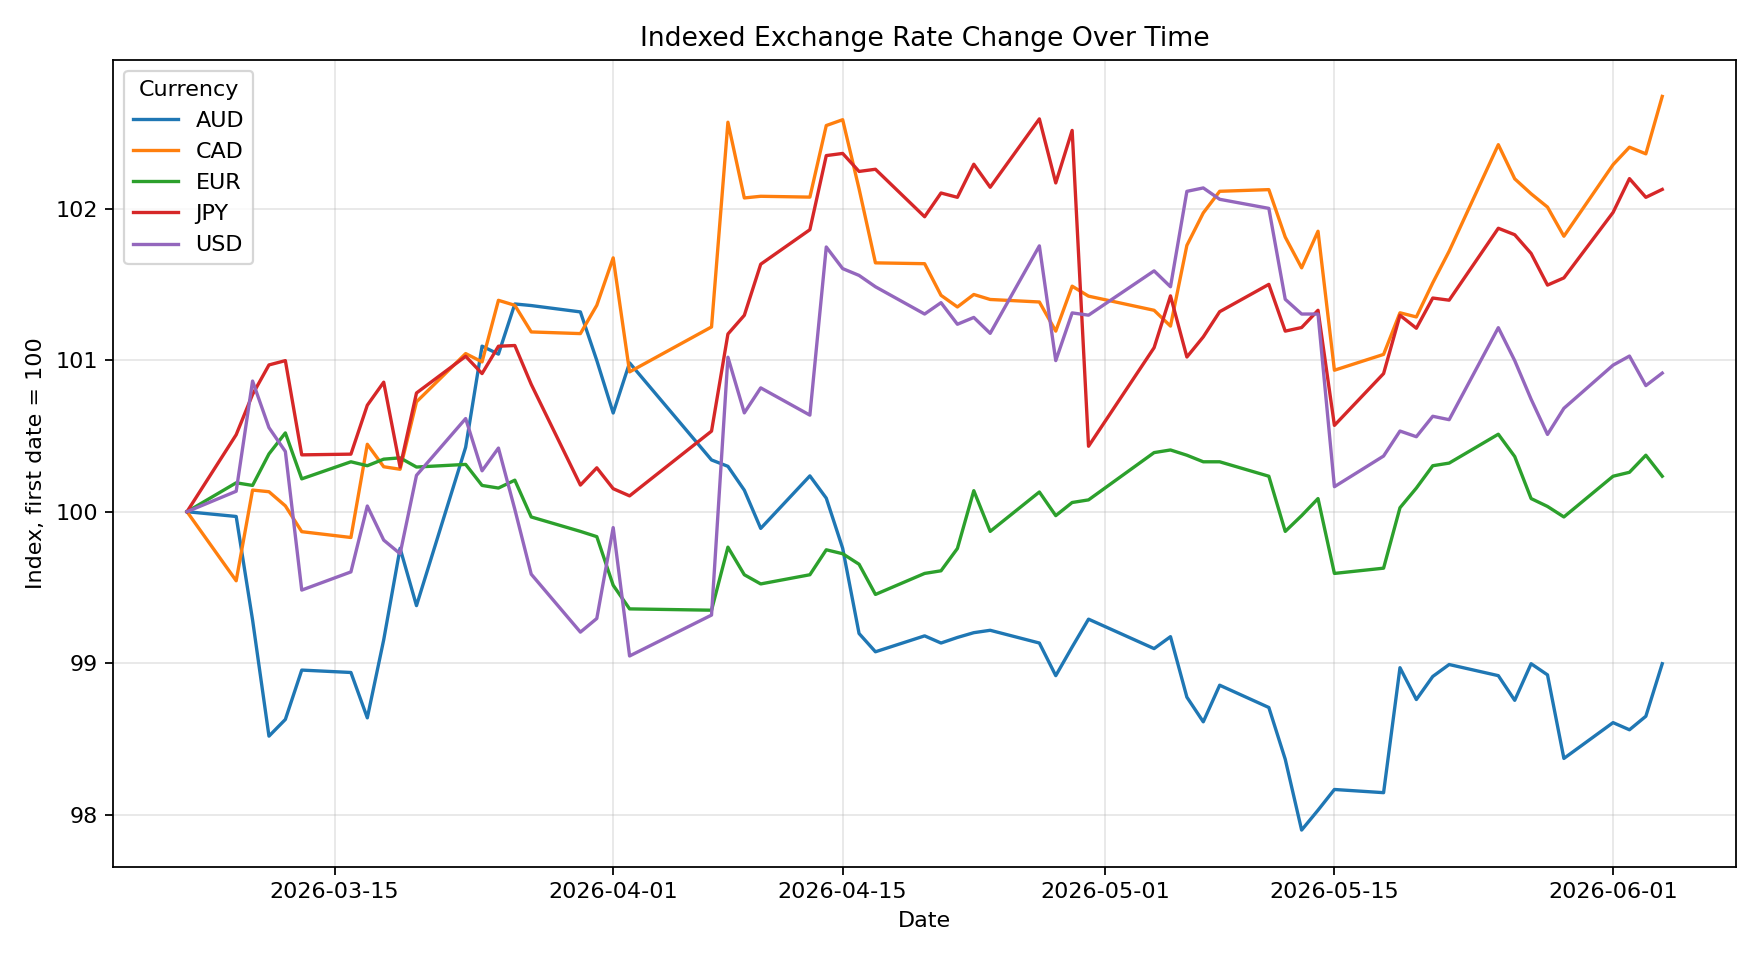
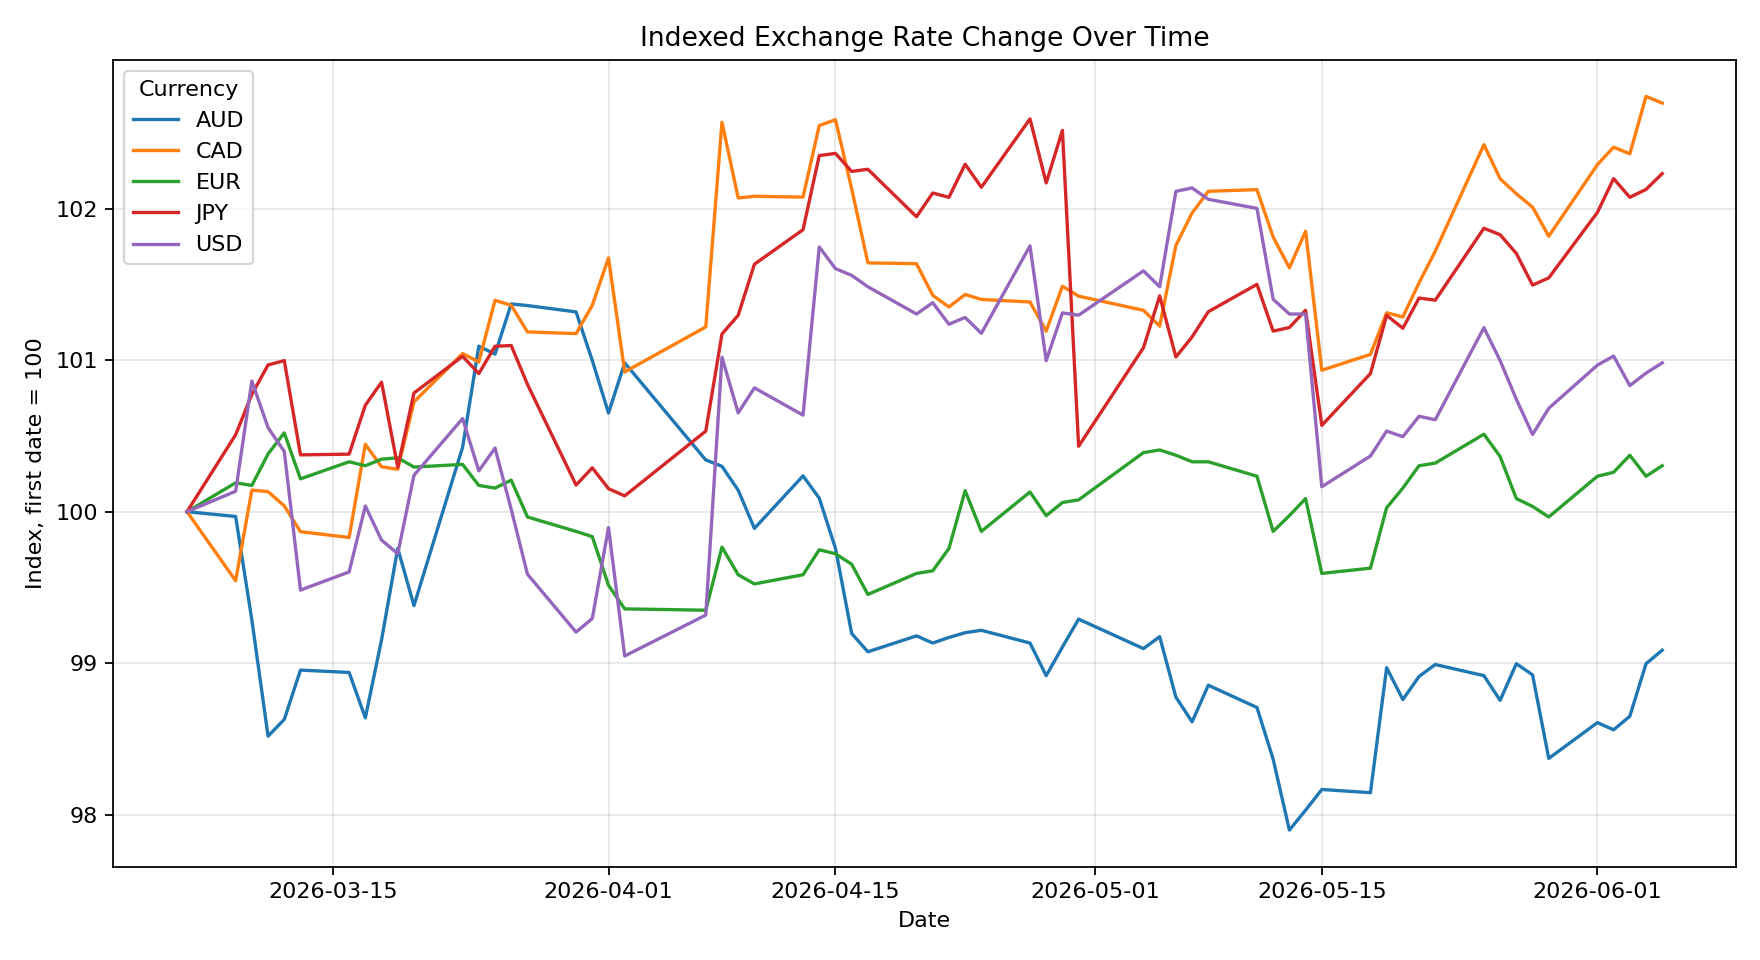
Simplify chart section and explain dual axis

diff --git a/src/create_charts.py b/src/create_charts.py
@@ -15,36 +15,6 @@ SUMMARY_INPUT_PATH = Path("data/processed/exchange_rates_summary.csv")
 CHART_DIR = Path("outputs/charts")
 
 
-def save_line_chart(clean_df: pd.DataFrame) -> None:
-    """Save line charts showing exchange-rate movement over time."""
-    major_currency_df = clean_df[clean_df["target_currency"] != "JPY"]
-    plt.figure(figsize=(11, 6))
-    for currency in sorted(major_currency_df["target_currency"].unique()):
-        currency_df = major_currency_df[major_currency_df["target_currency"] == currency]
-        plt.plot(currency_df["date"], currency_df["exchange_rate"], label=currency)
-
-    plt.title("GBP Exchange Rates Over Time Excluding JPY")
-    plt.xlabel("Date")
-    plt.ylabel("Exchange rate from GBP")
-    plt.legend(title="Currency")
-    plt.grid(alpha=0.3)
-    plt.tight_layout()
-    plt.savefig(CHART_DIR / "exchange_rates_over_time_excluding_jpy.png", dpi=160)
-    plt.close()
-
-    jpy_df = clean_df[clean_df["target_currency"] == "JPY"]
-    plt.figure(figsize=(11, 6))
-    plt.plot(jpy_df["date"], jpy_df["exchange_rate"], color="#8c564b", label="JPY")
-    plt.title("GBP to JPY Exchange Rate Over Time")
-    plt.xlabel("Date")
-    plt.ylabel("Exchange rate from GBP")
-    plt.legend(title="Currency")
-    plt.grid(alpha=0.3)
-    plt.tight_layout()
-    plt.savefig(CHART_DIR / "gbp_to_jpy_exchange_rate.png", dpi=160)
-    plt.close()
-
-
 def save_dual_axis_chart(clean_df: pd.DataFrame) -> None:
     """Save one chart with JPY on a separate axis because it has a different scale."""
     major_currency_df = clean_df[clean_df["target_currency"] != "JPY"]
@@ -129,7 +99,6 @@ def main() -> None:
     clean_df = pd.read_csv(CLEAN_INPUT_PATH, parse_dates=["date"])
     summary_df = pd.read_csv(SUMMARY_INPUT_PATH)
 
-    save_line_chart(clean_df)
     save_dual_axis_chart(clean_df)
     save_indexed_line_chart(clean_df)
     save_percentage_range_chart(clean_df)

diff --git a/README.md b/README.md
@@ -70,8 +70,6 @@ Outputs:
 Outputs:
 
 - `outputs/charts/exchange_rates_dual_axis_with_jpy.png`
-- `outputs/charts/exchange_rates_over_time_excluding_jpy.png`
-- `outputs/charts/gbp_to_jpy_exchange_rate.png`
 - `outputs/charts/indexed_exchange_rate_change.png`
 - `outputs/charts/exchange_rate_percentage_range_by_currency.png`
 
@@ -83,19 +81,15 @@ Outputs:
 
 ### GBP Exchange Rates With JPY on a Separate Axis
 
-JPY has much larger exchange-rate values than the other selected currencies. This chart keeps all currencies in one view, but uses a separate right-hand axis for JPY so the other lines remain readable.
+This chart shows all selected currencies in one view, but uses two y-axes because JPY is on a much larger numerical scale than the other currencies.
+
+The left-hand y-axis is used for USD, EUR, CAD and AUD. These exchange rates are all close enough in value to be compared on the same scale. The right-hand y-axis is used for JPY, because GBP to JPY is around 210–216 during this period, while the other currencies are mostly around 1–2.
+
+Using one shared y-axis would make the USD, EUR, CAD and AUD lines appear almost flat and difficult to read. Using a separate axis for JPY keeps the chart readable while still allowing all currencies to be shown together.
+
+The chart should be read as a trend comparison rather than a direct comparison of raw values across the two axes. For fairer comparison of relative movement, the indexed chart below is more useful.
 
 ![GBP exchange rates with JPY on a separate axis](outputs/charts/exchange_rates_dual_axis_with_jpy.png)
-
-### GBP Exchange Rates Over Time Excluding JPY
-
-This version removes JPY completely so the movement of USD, EUR, CAD and AUD can be seen more clearly on one scale.
-
-![GBP exchange rates over time excluding JPY](outputs/charts/exchange_rates_over_time_excluding_jpy.png)
-
-### GBP to JPY Exchange Rate
-
-![GBP to JPY exchange rate](outputs/charts/gbp_to_jpy_exchange_rate.png)
 
 ### Indexed Exchange Rate Change
 